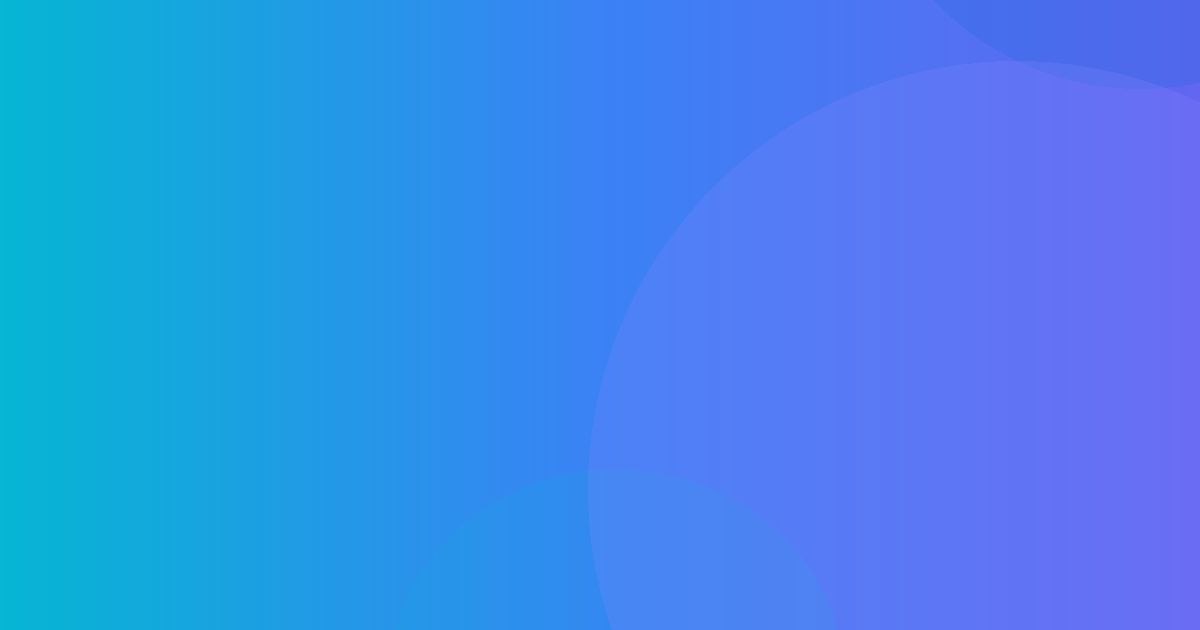
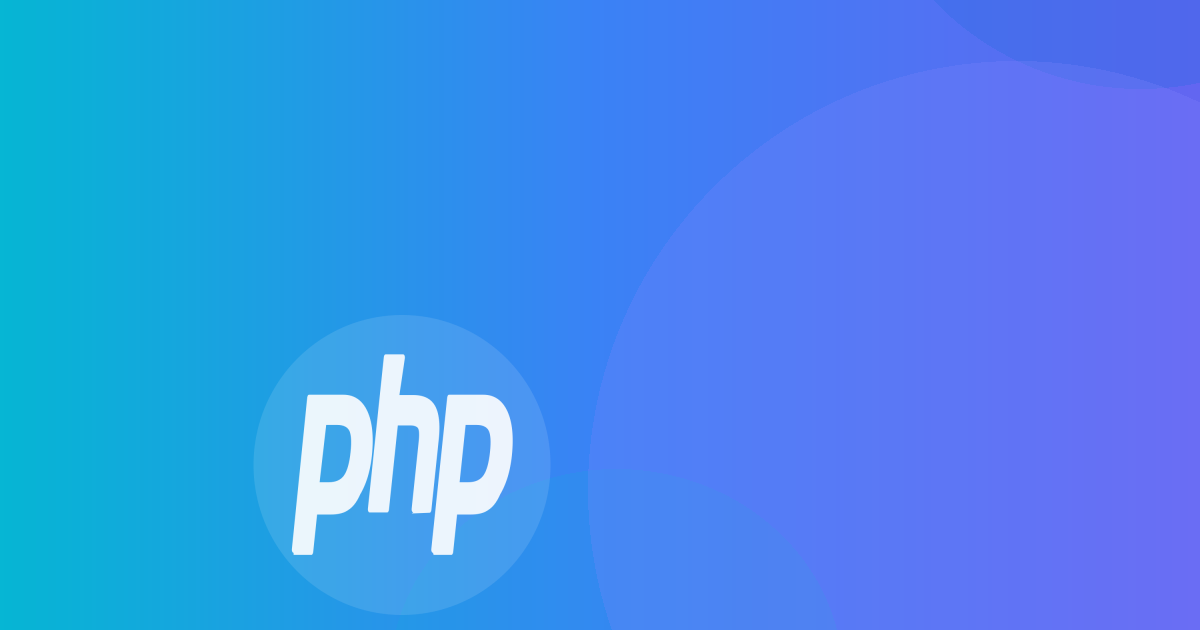
..

Changed region(s): [[0.185, 0.4825, 0.4317, 0.9952]]

diff --git a/helpers/ModernCoverGenerator.php b/helpers/ModernCoverGenerator.php
@@ -22,6 +22,17 @@ class ModernCoverGenerator
         ['#EC4899', '#F59E0B', '#8B5CF6'], // Pink-Amber-Purple
     ];
 
+    // SVG logos for each tech tag
+    private const SVG_LOGOS = [
+        'laravel' => '<svg viewBox="0 0 42 42" fill="none" xmlns="http://www.w3.org/2000/svg"><path d="M41 9.88889L33 5.44444L25 9.88889M41 9.88889L33 14.3333M41 9.88889V18.7778L33 23.2222M25 9.88889V18.7778M25 9.88889L33 14.3333M25 18.7778L33 23.2222M25 18.7778L9 27.6667M33 23.2222V32.1111L17 41M33 23.2222V14.3333M33 23.2222L17 32.1111M9 27.6667L17 32.1111M9 27.6667V9.88889M1 5.44444L9 1L17 5.44444M1 5.44444V32.1111L17 41M1 5.44444L9 9.88889M17 41V32.1111M9 9.88889L17 5.44444M17 5.44444V23.2222" stroke="white" stroke-width="1.5" opacity="0.85"/></svg>',
+
+        'vue' => '<svg viewBox="0 0 128 128" xmlns="http://www.w3.org/2000/svg"><path fill="white" opacity="0.5" d="M78.8,10L64,35.4L49.2,10H0l64,110l64-110C128,10,78.8,10,78.8,10z"/><path fill="white" opacity="0.9" d="M78.8,10L64,35.4L49.2,10H25.6L64,76l38.4-66H78.8z"/></svg>',
+
+        'php' => '<svg viewBox="0 0 711 384" xmlns="http://www.w3.org/2000/svg"><ellipse cx="360" cy="192" rx="330" ry="180" fill="white" opacity="0.12"/><g opacity="0.9" fill="white"><path d="M161.73 145.31c12.07 0 21.07 2.22 26.77 6.61 5.64 4.34 9.53 11.86 11.57 22.35 1.9 9.81 1.18 16.65-2.15 20.35-3.41 3.77-10.77 5.69-21.89 5.69h-19.28l-11.69-55h16.67zm-63.06-67.75a3.27 3.27 0 0 0-2.31 1.09c-.57.69-.8 1.6-.63 2.48l27.33 145.75a3.27 3.27 0 0 0 3.12 2.43h61.05c19.19 0 33.47-5.21 42.45-15.49 9.02-10.33 11.81-24.77 8.28-42.92-1.44-7.39-3.91-14.26-7.34-20.41-3.44-6.15-7.98-11.85-13.51-16.93-6.62-8.19-14.1-12.68-22.24-15.32-7-2.61-17.28-3.93-29.55-3.93h-24.72l-7.06-36.32a3.27 3.27 0 0 0-2.94-2.43h-31.75z" transform="matrix(1.25,0,0,-1.25,-4.4,394.3)"/><path d="M311.58 116.31a3.27 3.27 0 0 0-2.31 1.09c-.57.69-.8 1.6-.63 2.48l12.53 64.49c1.19 6.13.9 10.53-.83 12.39-1.06 1.14-4.23 3.04-13.61 3.04h-22.71l-15.76-81.07a3.27 3.27 0 0 0-2.95-2.43h-31.5a3.27 3.27 0 0 0-2.31 1.09c-.57.69-.8 1.6-.63 2.48l28.33 145.75a3.27 3.27 0 0 0 2.94 2.43h31.5a3.27 3.27 0 0 0 2.32-1.09c.57-.69.8-1.6.63-2.48L286.87 229h24.42c18.61 0 31.22-3.28 38.57-10.03 7.49-6.88 9.83-17.89 6.95-32.72l-13.18-67.82a3.27 3.27 0 0 0-2.95-2.43l-32-.69z" transform="matrix(1.25,0,0,-1.25,-4.4,394.3)"/><path d="M409.55 145.31c12.07 0 21.07 2.22 26.77 6.61 5.64 4.34 9.53 11.86 11.57 22.35 1.9 9.81 1.18 16.65-2.15 20.35-3.41 3.77-10.77 5.69-21.89 5.69h-19.28l-10.69-55h16.67zm-63.06-67.75a3.27 3.27 0 0 0-2.31 1.09c-.57.69-.8 1.6-.63 2.48l28.33 145.75a3.27 3.27 0 0 0 3.12 2.43h61.05c19.19 0 33.47-5.21 42.45-15.49 9.02-10.33 11.81-24.77 8.28-42.92-1.44-7.39-3.91-14.26-7.34-20.41-3.44-6.15-7.98-11.85-13.51-16.93-6.62-8.19-14.1-12.68-22.24-15.32-7-2.61-17.28-3.93-29.55-3.93h-24.72l-7.06-36.32a3.27 3.27 0 0 0-2.95-2.43h-31.75z" transform="matrix(1.25,0,0,-1.25,-4.4,394.3)"/></g></svg>',
+
+        'javascript' => '<svg viewBox="0 0 256 256" xmlns="http://www.w3.org/2000/svg"><rect fill="white" opacity="0.9" width="256" height="256"/><path fill="#black" opacity="0.8" d="M67.312 213.932l19.59-11.856c3.78 6.701 7.218 12.371 15.465 12.371 7.905 0 12.89-3.092 12.89-15.12v-81.798h24.057v82.138c0 24.917-14.606 36.259-35.916 36.259-19.245 0-30.416-9.967-36.087-21.996M152.381 211.354l19.588-11.341c5.157 8.421 11.859 14.607 23.715 14.607 9.969 0 16.325-4.984 16.325-11.858 0-8.248-6.53-11.17-17.528-15.98l-6.013-2.58c-17.357-7.387-28.87-16.667-28.87-36.257 0-18.044 13.747-31.792 35.228-31.792 15.294 0 26.292 5.328 34.196 19.247l-18.732 12.03c-4.125-7.389-8.591-10.31-15.465-10.31-7.046 0-11.514 4.468-11.514 10.31 0 7.217 4.468 10.14 14.778 14.608l6.014 2.577c20.45 8.765 31.963 17.7 31.963 37.804 0 21.654-17.012 33.51-39.867 33.51-22.339 0-36.774-10.654-43.819-24.574"/></svg>',
+    ];
+
     public function __construct()
     {
         $this->imageManager = new ImageManager(new Driver());
@@ -41,6 +52,9 @@ class ModernCoverGenerator
 
         // Add organic flowing shapes with proper blending
         $this->addFlowingShapes($img, $palette, $seed);
+
+        // Add tech logo if post has matching tags
+        $this->addTechLogo($img, $post->tags ?? [], $seed);
 
         // Save
         if (!is_dir($destination . '/assets/images/covers')) {
@@ -228,6 +242,81 @@ class ModernCoverGenerator
                     $ellipse->border($colorWithAlpha, 0);
                 });
             }
+        }
+    }
+
+    private function addTechLogo($img, array $tags, int $seed): void
+    {
+        // Find first matching tag that has a logo
+        $logoTag = null;
+        foreach ($tags as $tag) {
+            $tagLower = strtolower($tag);
+            if (isset(self::SVG_LOGOS[$tagLower])) {
+                $logoTag = $tagLower;
+                break;
+            }
+        }
+
+        if (!$logoTag) {
+            return; // No logo found
+        }
+
+        // Create temp directory if needed
+        $tempDir = sys_get_temp_dir() . '/cover-logos';
+        if (!is_dir($tempDir)) {
+            @mkdir($tempDir, 0777, true);
+        }
+
+        // Save SVG to temp file
+        $svgPath = $tempDir . '/' . $logoTag . '.svg';
+        $pngPath = $tempDir . '/' . $logoTag . '-hires.png';
+
+        file_put_contents($svgPath, self::SVG_LOGOS[$logoTag]);
+
+        // Convert SVG to high-res PNG (800x800) using rsvg-convert for smoothness
+        $cmd = sprintf(
+            'rsvg-convert -w 800 -h 800 %s -o %s 2>&1',
+            escapeshellarg($svgPath),
+            escapeshellarg($pngPath)
+        );
+
+        exec($cmd, $output, $returnCode);
+
+        if ($returnCode !== 0 || !file_exists($pngPath)) {
+            return; // Conversion failed
+        }
+
+        // Load the high-res PNG
+        try {
+            $logo = $this->imageManager->read($pngPath);
+
+            // Scale logo to desired size on cover (250-350px)
+            $logoSizes = [250, 280, 300, 320, 350];
+            $logoSize = $logoSizes[$seed % count($logoSizes)];
+            $logo->scale($logoSize, $logoSize);
+
+            // Position logo (bottom-right, bottom-left, center, etc.)
+            $positions = [
+                ['bottom-right', -60, -60],
+                ['bottom-left', 60, -60],
+                ['center', 200, 150],
+                ['center', -200, 150],
+                ['center', 0, -100],
+            ];
+
+            $position = $positions[$seed % count($positions)];
+
+            // Apply subtle opacity by converting to grayscale and reducing opacity
+            $logo->greyscale();
+
+            // Place the logo
+            $img->place($logo, $position[0], $position[1], $position[2]);
+
+            // Cleanup temp files
+            @unlink($pngPath);
+            @unlink($svgPath);
+        } catch (\Exception $e) {
+            // Silently fail if logo can't be loaded
         }
     }
 
